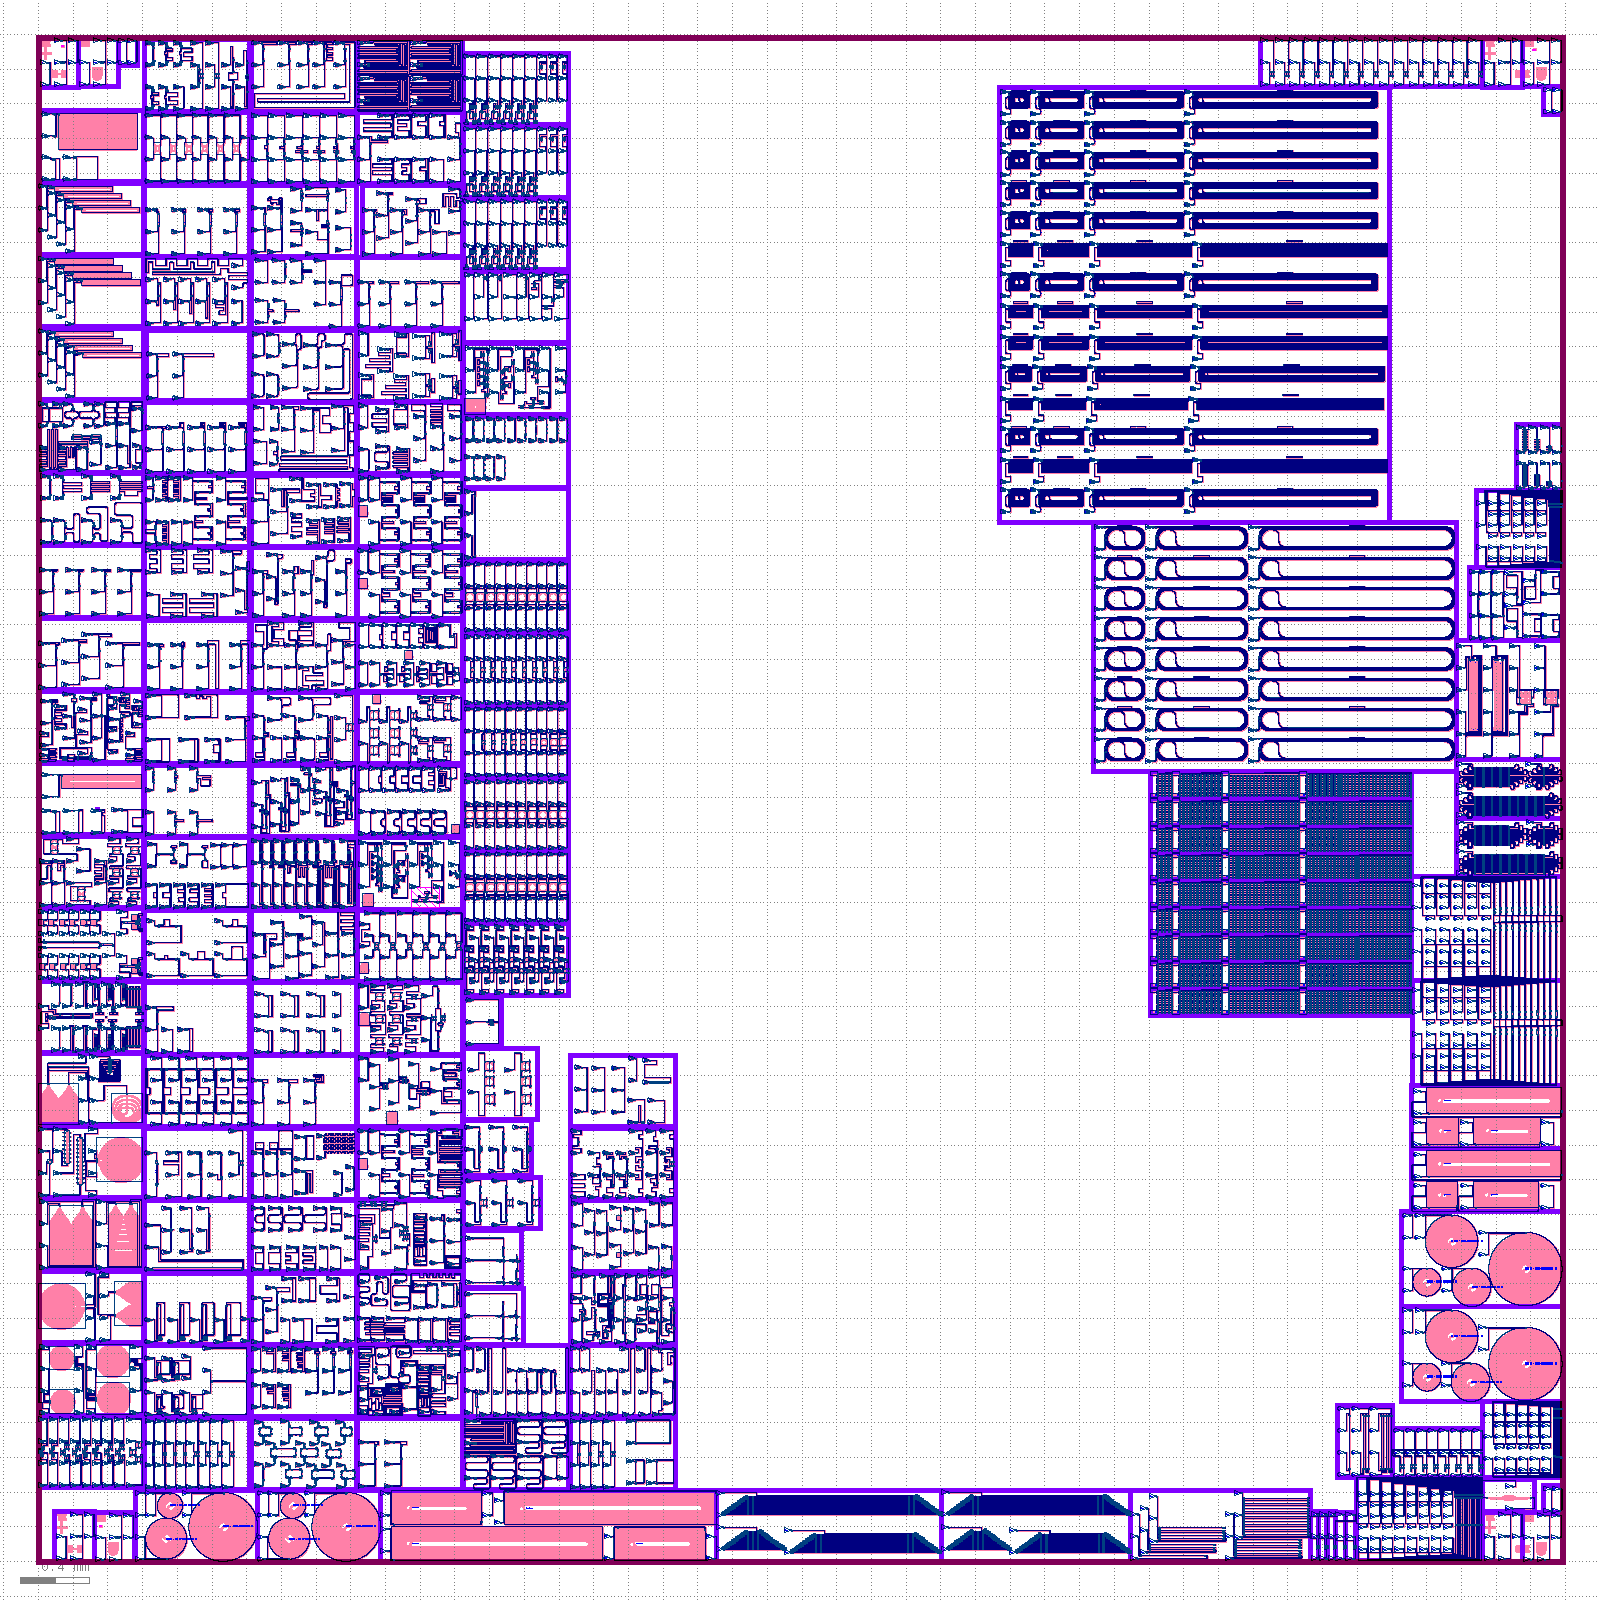
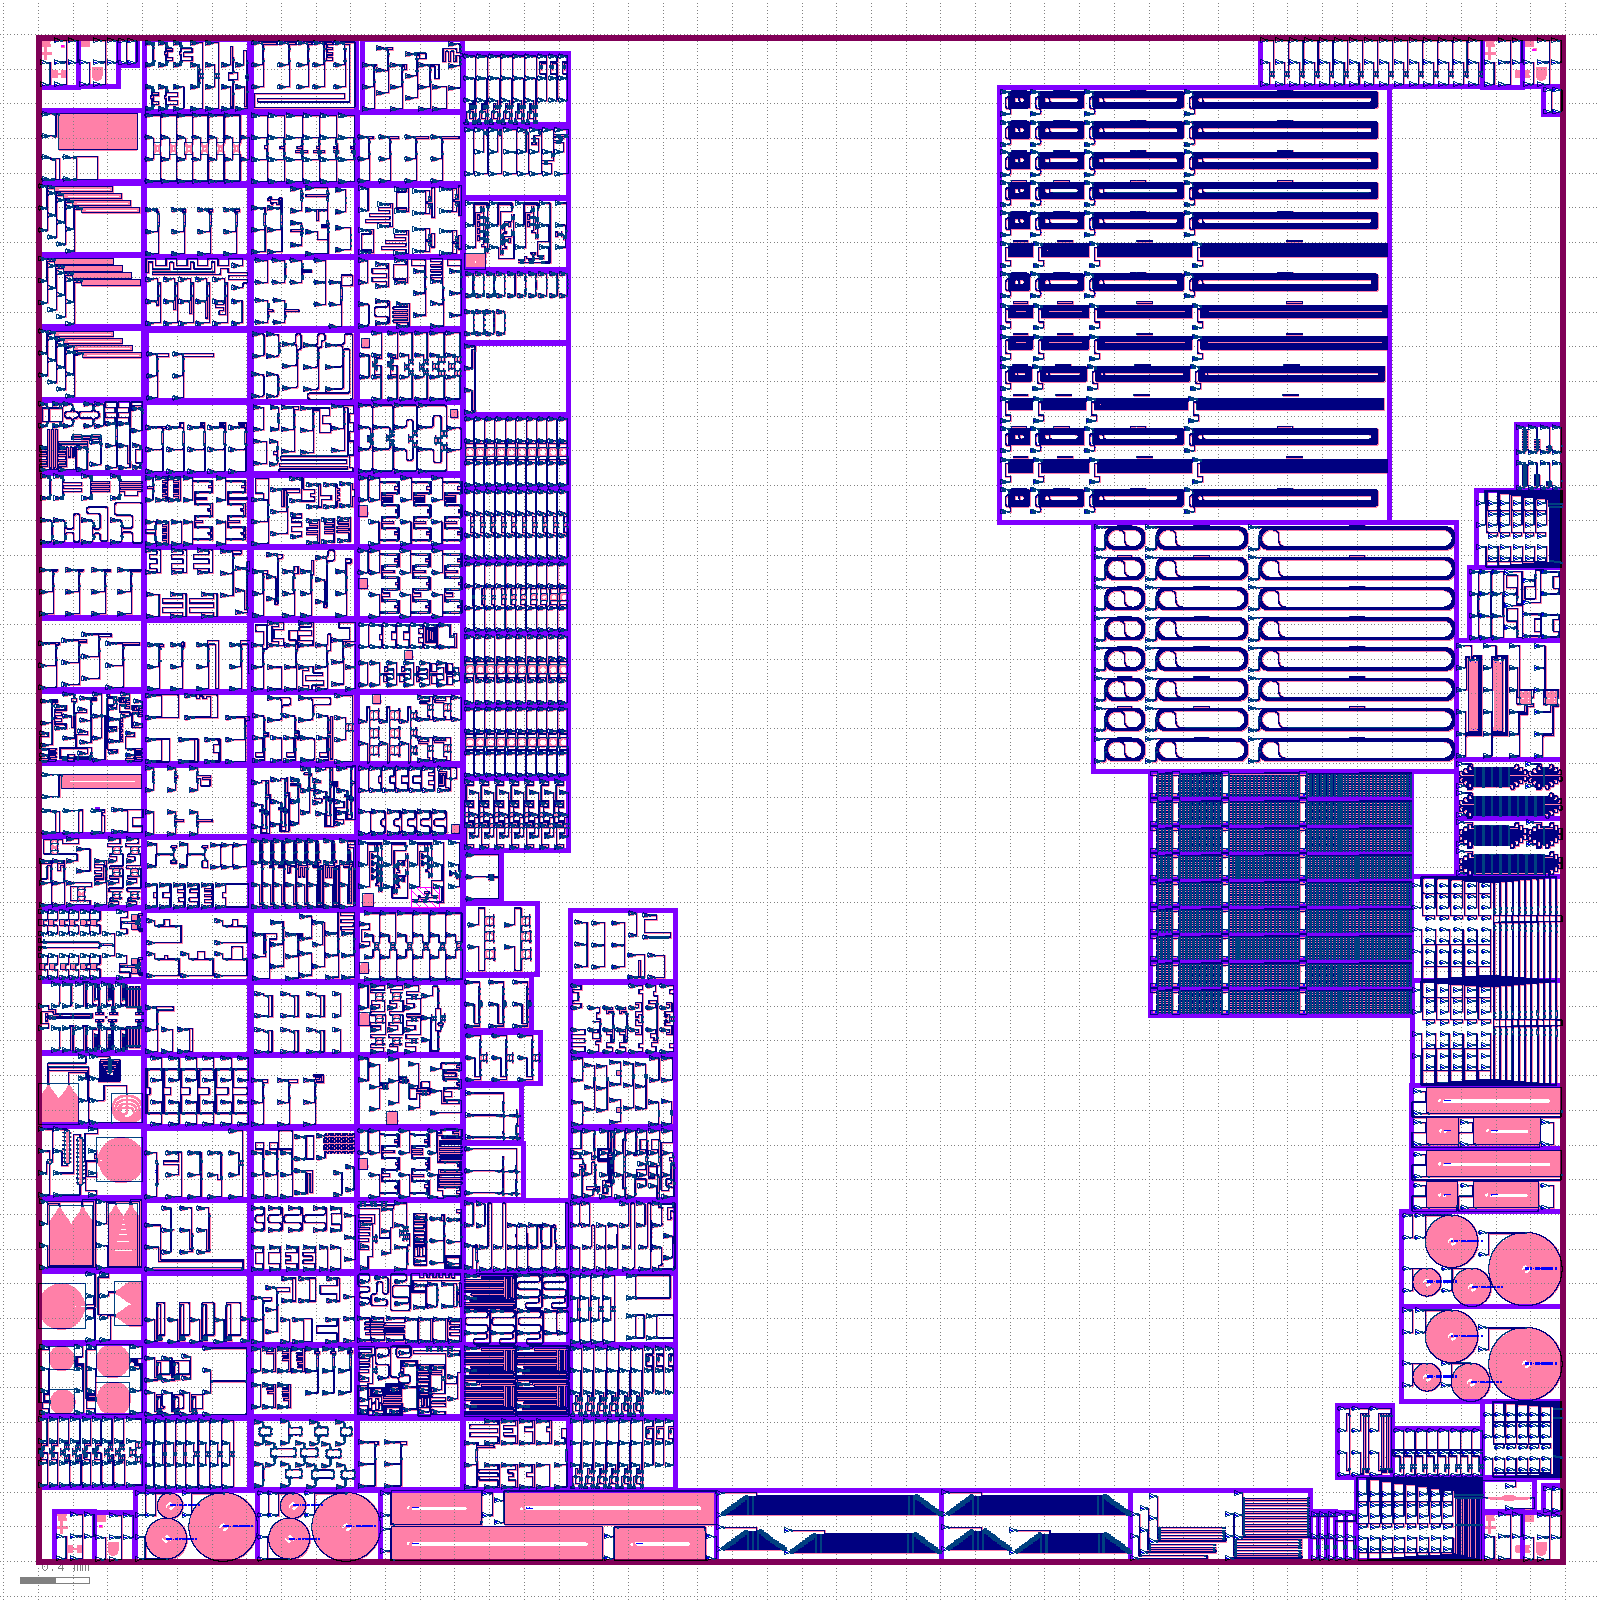
Aggregation layout: https://github.com/SiEPIC/openEBL-2026-05/actions/runs/25954786120/artifacts/7031124792

Changed region(s): [[0.2188, 0.0, 0.4375, 0.9375]]

diff --git a/README.md b/README.md
@@ -91,5 +91,5 @@ Will be added here.
 
 Click on the following link to download the EBeam.oas merged layout file:
 <!-- start-link -->
-https://github.com/SiEPIC/openEBL-2026-05/actions/runs/25953984307/artifacts/7030851566
+https://github.com/SiEPIC/openEBL-2026-05/actions/runs/25954786120/artifacts/7031124792
 <!-- end-link -->